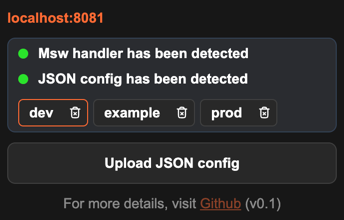
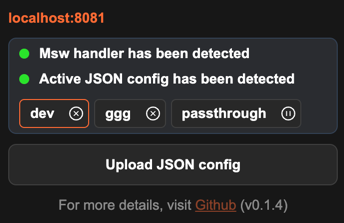
Passthrough support

diff --git a/packages/extension/src/popup/ConfigListButtons/ConfigListButtons.tsx b/packages/extension/src/popup/ConfigListButtons/ConfigListButtons.tsx
@@ -1,55 +1,66 @@
 import React, { FC } from 'react'
 import { clsx } from 'clsx'
 
-import {
-  BackgroundResponseMessage,
-  LocalStorageConfigKey,
-  MessageType
-} from '@msw-devtools/core'
+import { BackgroundResponseMessage, MessageType } from '@msw-devtools/core'
 
 import TrashIcon from './trash.svg'
+import PausedIcon from './pause.svg'
+import PlayIcon from './play.svg'
 
 import styles from './ConfigListButtons.module.css'
 
-export const ConfigListButtons: FC<{
-  list?: Extract<
-    BackgroundResponseMessage,
-    { type: MessageType.Status; payload: any }
-  >['payload']['configNames']
-  activeKey?: LocalStorageConfigKey
-  onRemove: (key: LocalStorageConfigKey) => void
-  onSetActive: (key: LocalStorageConfigKey) => void
-}> = ({ list, onSetActive, activeKey, onRemove }) => {
-  if (!list) return
+type ConfigNames = Extract<
+  BackgroundResponseMessage,
+  { type: MessageType.Status; payload: any }
+>['payload']['configNames']
 
-  const listEntries = Object.entries(list)
-  if (!listEntries.length) return
+export const ConfigListButtons: FC<{
+  list?: ConfigNames
+  activeKey?: ConfigNames[0]['key']
+  onRemove: (key: ConfigNames[0]['key']) => void
+  onSetActive: (key: ConfigNames[0]['key']) => void
+}> = ({ list, onSetActive, activeKey, onRemove }) => {
+  if (!list?.length) return
 
   return (
     <div className={styles.wrapper}>
-      {listEntries.map(([name, { key }], index) => (
-        <div
-          className={clsx(styles.item, {
-            [styles.active]: key === activeKey
-          })}
-          key={key}
-        >
-          <button
-            onClick={() => onSetActive(key)}
-            title="Click to chose"
-            className={styles.button}
+      {list.map(({ name, key, passthrough }) => {
+        const isActive = key === activeKey || (passthrough && !activeKey)
+
+        return (
+          <div
+            className={clsx(styles.item, {
+              [styles.active]: isActive
+            })}
+            key={key}
           >
-            {name}
-          </button>
-          <button
-            onClick={() => onRemove(key)}
-            title="Click to remove"
-            className={styles.button}
-          >
-            <TrashIcon />
-          </button>
-        </div>
-      ))}
+            <button
+              onClick={() => onSetActive(key)}
+              title="Click to chose"
+              className={styles.button}
+            >
+              {name}
+            </button>
+            <button
+              onClick={() => {
+                onRemove(key)
+              }}
+              disabled={passthrough && !isActive}
+              className={styles.button}
+            >
+              {passthrough ? (
+                isActive ? (
+                  <PlayIcon fill="#fff" width={14} height={14} />
+                ) : (
+                  <PausedIcon fill="#fff" width={14} height={14} />
+                )
+              ) : (
+                <TrashIcon fill="#fff" width={14} height={14} />
+              )}
+            </button>
+          </div>
+        )
+      })}
     </div>
   )
 }

diff --git a/packages/extension/src/popup/utils.ts b/packages/extension/src/popup/utils.ts
@@ -93,7 +93,7 @@ export const getStatus = async (host: string) => {
       BackgroundResponseMessage,
       { type: MessageType.Status; payload: any }
     >['payload']
-  >((resolve, reject) => {
+  >((resolve) => {
     sendMessage<
       Extract<BackgroundReceiveMessage, { type: MessageType.Status }>
     >(
@@ -112,7 +112,7 @@ export const getStatus = async (host: string) => {
             host,
             hasHandle: false,
             hasConfig: false,
-            configNames: {}
+            configNames: []
           })
         }
       },
@@ -123,17 +123,25 @@ export const getStatus = async (host: string) => {
           hasHandle: true,
           hasConfig: true,
           activeConfig: 'host=localhost&name=production&jsonConfig=1',
-          configNames: {
-            production: {
+          configNames: [
+            {
+              name: 'production',
               key: 'host=localhost&name=production&jsonConfig=1'
             },
-            development: {
+            {
+              name: 'development',
               key: 'host=localhost&name=development&jsonConfig=1'
             },
-            staging: {
+            {
+              name: 'staging',
               key: 'host=localhost&name=staging&jsonConfig=1'
+            },
+            {
+              name: 'passthrough',
+              passthrough: true,
+              key: `host=${host}&name=__mswde_passthrough_config&jsonConfig=1`
             }
-          },
+          ],
           host: window.location.host
         }
       }

diff --git a/packages/core/src/types.ts b/packages/core/src/types.ts
@@ -100,12 +100,18 @@ export type BackgroundResponseMessage =
             hasHandle: boolean
             hasConfig: boolean
             activeConfig?: LocalStorageConfigKey
-            configNames: Record<
-              string,
-              {
-                key: LocalStorageConfigKey
-              }
-            >
+            configNames: (
+              | {
+                  name: string
+                  passthrough?: false
+                  key: LocalStorageConfigKey
+                }
+              | {
+                  name: string
+                  passthrough: true
+                  key: `host=${string}&name=__mswde_passthrough_config&jsonConfig=1`
+                }
+            )[]
           }
         }
     ))

diff --git a/packages/extension/src/background/messages.ts b/packages/extension/src/background/messages.ts
@@ -40,6 +40,7 @@ const messages: HandlersMap = {
   [MessageType.HandleInitialized]: async ({ type, host }, sender) => {
     activeMswResolvers.add({
       tabId: sender.tab!.id!,
+      windowId: sender.tab!.windowId!,
       host
     })
 
@@ -95,11 +96,10 @@ const messages: HandlersMap = {
 
       let hasConfig = false
       let currentConfig: Awaited<ReturnType<typeof getJsonConfig>> = null
-      let configNames: Awaited<ReturnType<typeof getJsonConfigNames>> = {}
+      let configNames: Awaited<ReturnType<typeof getJsonConfigNames>> = []
 
       try {
         currentConfig = await getJsonConfig(host)
-
         configNames = await getJsonConfigNames(host)
         hasConfig = !!currentConfig
       } catch (e) {

diff --git a/packages/extension/src/background/storage.ts b/packages/extension/src/background/storage.ts
@@ -39,19 +39,23 @@ export const getJsonConfigNames = async (
     (memo, [key, config]) => {
       if (!config) return memo
 
-      memo[config.name] = {
+      memo.push({
+        name: config.name,
         key: key as LocalStorageConfigKey
-      }
+      })
+
       return memo
     },
-    {} as Extract<
-      BackgroundResponseMessage,
-      {
-        type: MessageType.Status
-        payload: any
-      }
-    >['payload']['configNames']
+    [] as Awaited<ReturnType<typeof getJsonConfigNames>>
   )
+
+  if (names.length) {
+    names.push({
+      name: 'passthrough',
+      passthrough: true,
+      key: `host=${host}&name=__mswde_passthrough_config&jsonConfig=1`
+    })
+  }
 
   return names
 }

diff --git a/packages/extension/src/popup/App.tsx b/packages/extension/src/popup/App.tsx
@@ -131,9 +131,13 @@ export const App = () => {
           {(() => {
             switch (configStatus) {
               case 'success':
-                return <>JSON config has been detected</>
+                return <>Active JSON config has been detected</>
               default:
-                return <>JSON config hasn't been detected</>
+                return !status?.configNames.length ? (
+                  <>JSON config hasn't been detected</>
+                ) : (
+                  <>Active JSON config hasn't been detected</>
+                )
             }
           })()}
         </Status>

diff --git a/packages/extension/src/popup/ConfigListButtons/ConfigListButtons.module.css b/packages/extension/src/popup/ConfigListButtons/ConfigListButtons.module.css
@@ -31,8 +31,9 @@
     max-width: 100%;
     overflow: hidden;
     text-overflow: ellipsis;
+    line-height: 1.5em;
 
-    &:last-child {
+    &:not(&:first-child) {
         padding-left: 5px;
         padding-right: 5px;
         flex-shrink: 0;
@@ -40,5 +41,10 @@
 
     &:hover {
         background-color: #404040;
+    }
+
+    &:disabled&:hover {
+        cursor: not-allowed;
+        background: inherit;
     }
 }

diff --git a/packages/extension/src/background/activeMswResolvers.ts b/packages/extension/src/background/activeMswResolvers.ts
@@ -3,6 +3,7 @@ import Tab = chrome.tabs.Tab
 type IndexInfo = {
   tabId: number
   host?: string
+  windowId?: number
 }
 
 export const activeMswResolvers = {

diff --git a/README.md b/README.md
@@ -30,11 +30,31 @@ Switch seamlessly between multiple JSON configurations within the same host envi
 
 <img width="300px" src="./media/extension/multi-configs.png" />
 
-### Edit json config in the DevTools 
-<img src="https://img.shields.io/badge/WIP-roadmap_feature-ff6a33" />
+### 🚀 Pass-Through Mode
+Enable pass-through mode to bypass MSW and send requests directly to the server
+even if configurations are uploaded.
 
-### Pause/Resume mode
-<img src="https://img.shields.io/badge/WIP-roadmap_feature-ff6a33" />
+<img width="300px" src="./media/extension/passthrough-mode.png" />
+
+
+## Roadmap Features 🚧
+
+### Edit json config in the DevTools
+
+Currently, you can only upload JSON files, but you can't edit them in the DevTools.
+
+### Upload multiple JSON config at once
+
+Currently, you can only upload one JSON file at a time, because
+it simplifies the process of validation.
+
+### Multi window support
+
+Currently, you can use multi tabs with different configurations per host, but only one browser window is supported.
+
+### Early request interception
+
+Currently, requests sent before the extension is initialized are not intercepted by JSON handlers.
 
 ## Motivation 💡
 

diff --git a/.changeset/tasty-windows-remain.md b/.changeset/tasty-windows-remain.md
@@ -1,0 +1,6 @@
+---
+'@msw-devtools/extension': patch
+'@msw-devtools/core': patch
+---
+
+Passthrough support
